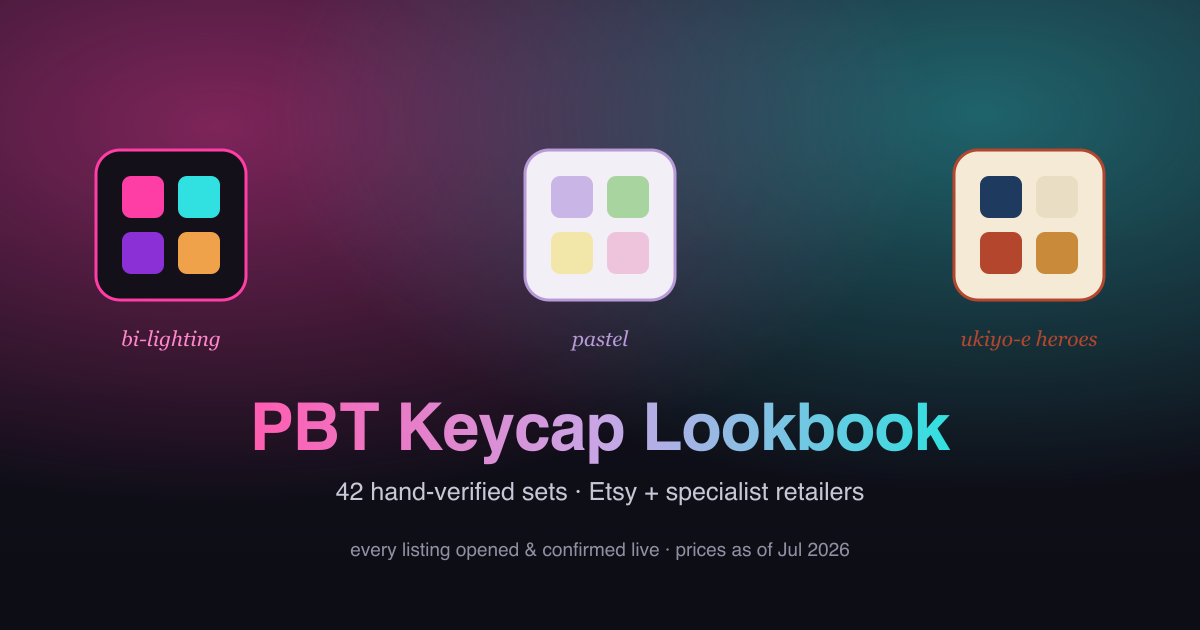
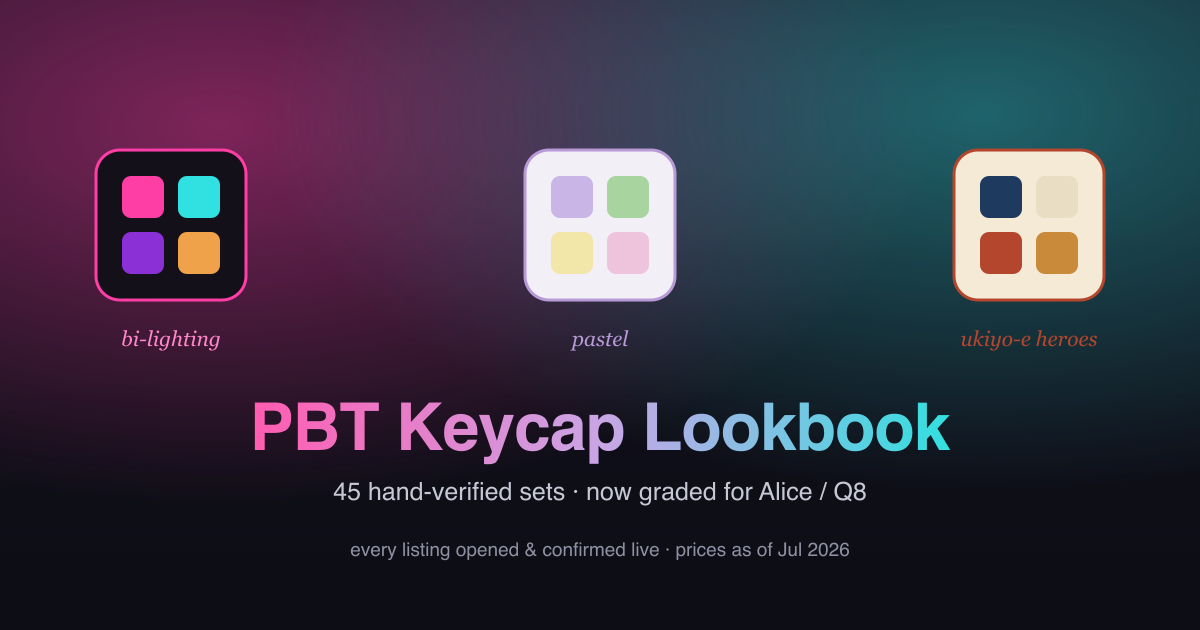
Expand sourcing (eBay/Amazon/ergo vendors) + 3 Q8-native sets, upgraded kit shelf
- New Q8-native sets (Ready-now grows 3 -> 6): YUNZII Rainbow Candy MOA ($37, Amazon,
  local imgs), KeysCreationns Cute Bear KOA ($120, pastel), BANGBOO KOA ($120, ukiyo game-IP)
- Kit shelf rebuilt with tiered convex split-spacebar options surfaced from the ergo canon:
  YMDK 9-pc XDA ($9.99, has 1.75u), Signature Plastics SA-P Convex PBT ($4/size, colour-match),
  Oh Keycaps SA Convex (11 colours, ABS), Mechkeeb XDA ($7.90)
- 45 sets total; OG regenerated

Changed region(s): [[0.2775, 0.754, 0.74, 0.8143]]

diff --git a/index.html b/index.html
@@ -632,6 +632,23 @@ const SETS = [
     shop:"Womier", price:"27.99", cur:"USD", profile:"MOA", material:"PBT dye-sub", keys:"full kit", compat:"MX",
     note:"A whole Japanese teishoku set-meal drawn across the caps in muted naturals — the most charmingly specific set here. Flat MOA.",
     imgs:["https://womierkeyboard.com/cdn/shop/files/womier-teishoku-series-moa-profile-dye-sub-pbt-keycap-set-3493099.png","https://womierkeyboard.com/cdn/shop/products/womier-teishoku-series-moa-profile-dye-sub-pbt-keycap-set-6435777.jpg","https://womierkeyboard.com/cdn/shop/products/womier-teishoku-series-moa-profile-dye-sub-pbt-keycap-set-9603148.jpg"] },
+
+  // ===== Q8 / ALICE-NATIVE ADDITIONS (eBay · Amazon · ergo-vendor sweep, verified 2026-07-05) =====
+  { bucket:"pastel", via:"Amazon", url:"https://www.amazon.com/dp/B0F6LPY5HQ", shopUrl:"https://www.amazon.com/dp/B0F6LPY5HQ", q8:"native", q8note:"Its spec table lists 2.25u + 2.75u spacebars (plus 6.25u/7u), so the Alice split is in the box. No 1.75u shift called out — verify.",
+    title:"Rainbow Candy — Alice-ready",
+    shop:"YUNZII", price:"36.99", cur:"USD", profile:"MOA", material:"PBT dye-sub", keys:"140 keys", compat:"ANSI + Alice split",
+    note:"The cheap, genuinely Q8-ready pastel: a soft rainbow-candy MOA that ships the 2.25u + 2.75u split bars. Not as refined as Pastel Dreams, but a fifth of the price and it fits your Alice out of the box.",
+    imgs:["img/yunzii-1.jpg","img/yunzii-2.jpg","img/yunzii-3.jpg"] },
+  { bucket:"pastel", id:"4466037070", q8:"native", q8note:"Listing title states ISO Alice Split Space; KOA is uniform, so the small spacebars are convex.",
+    title:"Cute Bear — KOA (Alice)",
+    shop:"KeysCreationns", price:"120.00", cur:"USD", profile:"KOA", material:"PBT dye-sub", keys:"133 keys", compat:"ISO / Alice split",
+    note:"A pastel kawaii-bear set built for split boards — KOA (convex) PBT with the Alice split spacebars included. The closest complete Alice-native pastel under Mintlodica's price.",
+    imgs:["https://i.etsystatic.com/60077663/r/il/56bd5e/7766540554/il_fullxfull.7766540554_958j.jpg","https://i.etsystatic.com/60077663/r/il/ed61c2/7814485311/il_fullxfull.7814485311_d1b2.jpg","https://i.etsystatic.com/60077663/r/il/66d5f0/7814485303/il_fullxfull.7814485303_7uuz.jpg"] },
+  { bucket:"ukiyoe", id:"4464902737", q8:"native", q8note:"Title states KOA profile, Alice split space, ISO — convex small spacebars included.",
+    title:"BANGBOO — KOA (Alice)",
+    shop:"KeysCreationns", price:"120.00", cur:"USD", profile:"KOA", material:"PBT dye-sub", keys:"133 keys", compat:"ISO / Alice split",
+    note:"Game-IP art (Zenless Zone Zero's BANGBOO) on a KOA convex PBT set that ships the Alice split spacebars — a rare Q8-native pick in the game-art bucket.",
+    imgs:["https://i.etsystatic.com/60077663/r/il/a5ad43/7758836916/il_fullxfull.7758836916_6suj.jpg","https://i.etsystatic.com/60077663/r/il/0fca3c/7758836936/il_fullxfull.7758836936_6ki8.jpg","https://i.etsystatic.com/60077663/r/il/de1628/7806783933/il_fullxfull.7806783933_rj3v.jpg"] },
 ];
 
 const NEARMISS = [
@@ -671,22 +688,22 @@ function q8info(s){
 }
 
 const KITS = [
-  { name:"YMDK XDA Convex Spacebar Kit", vendor:"YMDK", vendorShort:"ymdkey.com", profile:"XDA", price:"7.50",
-    url:"https://ymdkey.com/products/xda-profile",
-    sizes:"1u–7u incl. 2u / 2.25u / 2.75u / 3u", colors:"white · beige · grey · black",
-    note:"The cheapest clean match. Thick PBT, uniform XDA so every small bar is convex. Pick a colour to match your set." },
-  { name:"YMDK MDA Convex Spacebar Kit", vendor:"YMDK", vendorShort:"ymdkey.com", profile:"MDA", price:"6.90",
-    url:"https://ymdkey.com/products/wholesales-mda-convex-specebar-white-kit-7-pcs",
-    sizes:"1.25u / 1.75u / 2.25u / 2.75u / 3u / 7u", colors:"white",
-    note:"A touch taller (uniform MDA). Bonus: includes the 1.75u your Q8's left shift wants." },
-  { name:"Mechkeeb XDA Convex Spacebar", vendor:"Mechkeeb", vendorShort:"Amazon", profile:"XDA", price:"8",
+  { name:"YMDK 9-pc XDA Convex Kit", vendor:"YMDK", vendorShort:"Amazon", profile:"XDA", price:"9.99",
+    url:"https://www.amazon.com/dp/B0CB5SNSCH",
+    sizes:"incl. 1.75u + 2.25u + 2.75u + 3u", colors:"beige / off-white",
+    note:"Best all-in-one. PBT, uniform XDA (convex), and it has BOTH the 2.25u+2.75u split AND the 1.75u your Q8 shift wants. In stock." },
+  { name:"Signature Plastics SA-P Convex", vendor:"pimpmykeyboard", vendorShort:"spkeyboards.com", profile:"SA-P", price:"4", perSize:true,
+    url:"https://spkeyboards.com/products/sp-sap-convex-single-keycap",
+    sizes:"2.25u + 2.75u (buy each)", colors:"neutral · blue · grey · red · orange",
+    note:"The ErgoDox-canon PBT convex bar, à-la-carte with SP colour-matching. Premium feel, limited palette." },
+  { name:"Oh Keycaps SA Convex Shortbars", vendor:"Oh Keycaps", vendorShort:"ohkeycaps.com", profile:"SA-convex", price:"24",
+    url:"https://ohkeycaps.com/products/sa-convex-shortbars-2u-2-25u-2-75u-and-3u",
+    sizes:"2.25u + 2.75u (+ 3u)", colors:"11 colours — cream, off-white, navy, green, yellow…",
+    note:"Widest colour-match by far, so it blends into almost any set. Caveat: ABS, not PBT." },
+  { name:"Mechkeeb XDA Convex", vendor:"Mechkeeb", vendorShort:"Amazon", profile:"XDA", price:"7.90",
     url:"https://www.amazon.com/Mechkeeb-Convex-Spacebar-White-Black/dp/B09YY64DSF",
     sizes:"1.25u / 2u / 2.25u / 2.75u", colors:"off-white · black",
-    note:"In stock on Amazon; the black option is perfect under a cyberpunk set." },
-  { name:"Custom dye-sub split spacebar", vendor:"Etsy · made-to-order", vendorShort:"Etsy", profile:"XDA", price:"18",
-    url:"https://www.etsy.com/listing/4504252034/", perSize:true,
-    sizes:"2.25u / 2.75u / 3u (each)", colors:"any — colour-matched",
-    note:"Pricier and sold per size, but the move if a plain neutral bar would clash with a bold gradient set." },
+    note:"Cheap and in stock; the black option is the clean pick under a cyberpunk set." },
 ];
 
 function card(s){